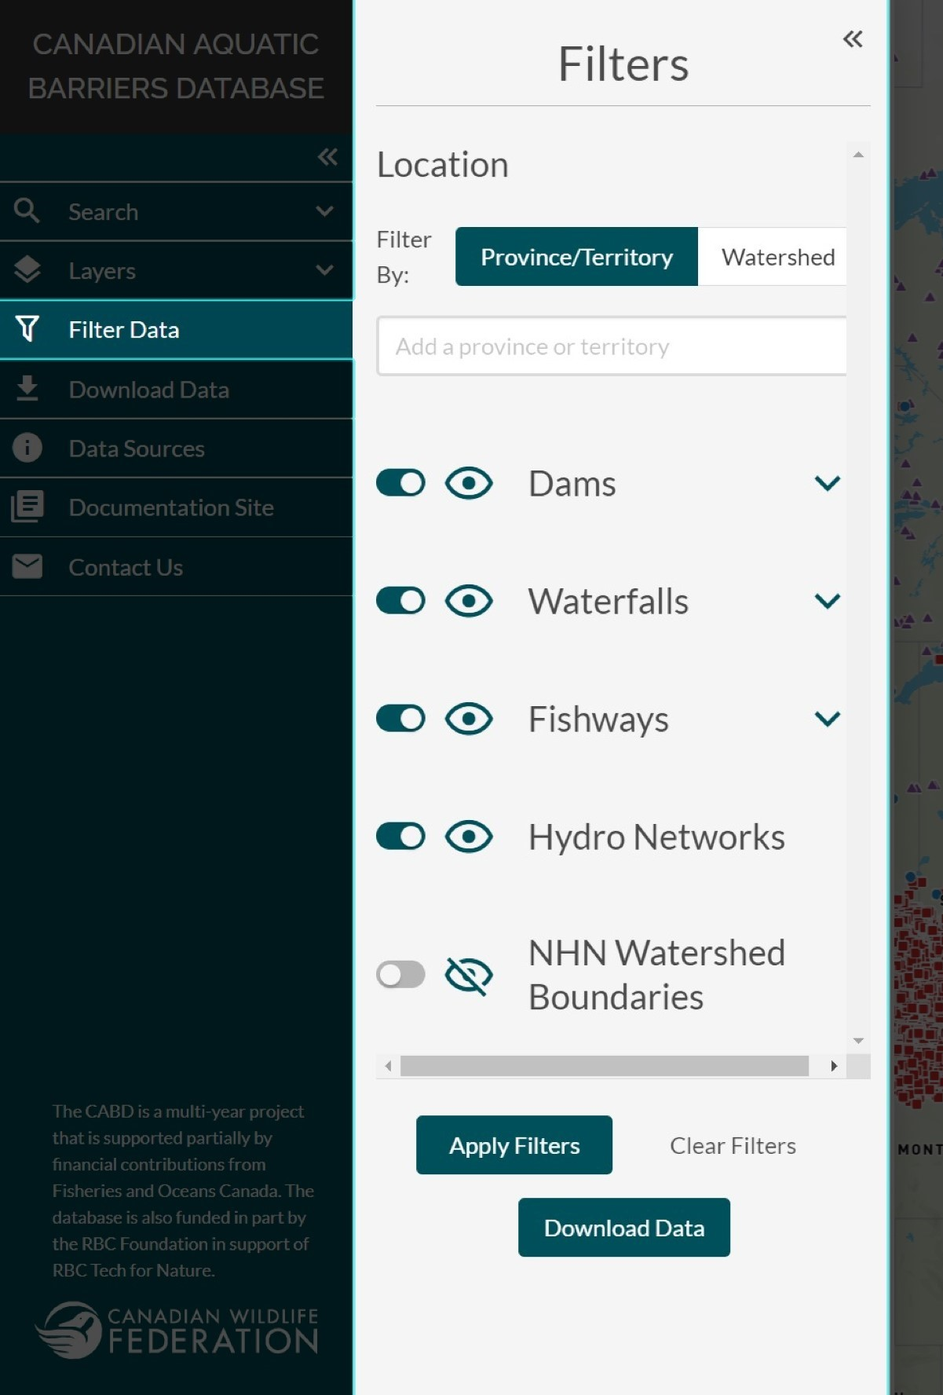
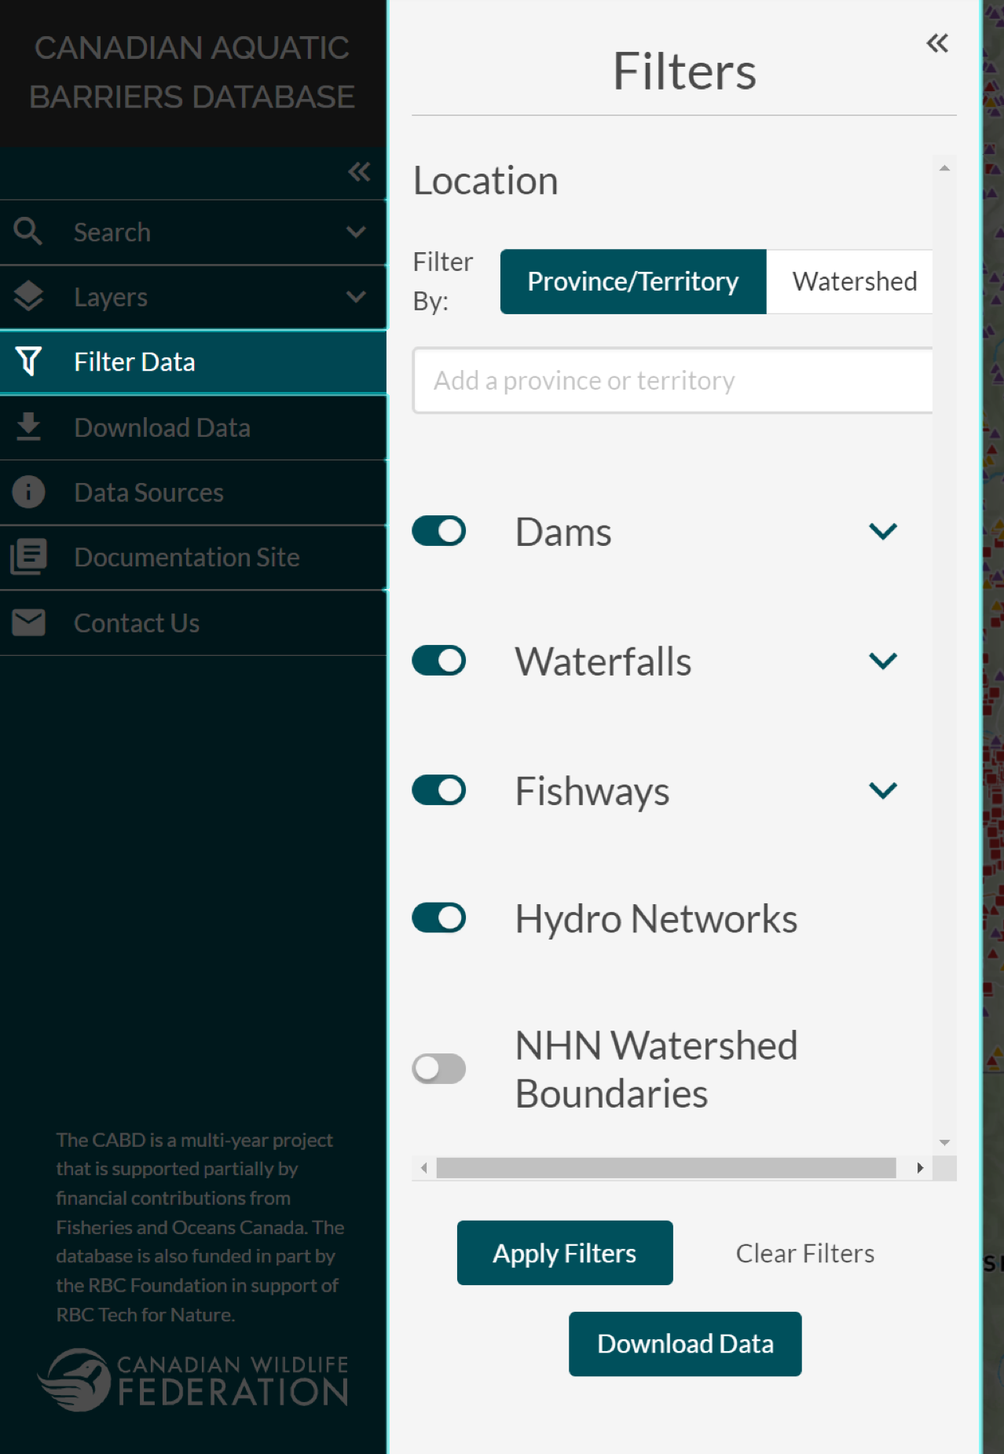
Content tweaks for launch
-updated data processing methods
-updated images in tutorial sections for refined interface
-minor corrections to advisory committee member lists
-some minor misc. corrections

diff --git a/docs/source/docs_tech/docs_tech_feature_review.rst b/docs/source/docs_tech/docs_tech_feature_review.rst
@@ -1,9 +1,8 @@
-======================
-Feature Review Process
-======================
+=======================
+Data Processing Methods
+=======================
 
-Reviewing existing datasets is an important step in preparing data for the Canadian Aquatic Barriers Database (CABD). This section provides a summary of the methods used to validate, deduplicate and standardize existing spatial datasets in an effort to create a harmonized national-scale database of barriers to aquatic connectivity, and associated structures, in Canada.
-
+The data in the Canadian Aquatic Barriers Database (CABD) has been compiled from a number of different spatial and non-spatial datasets. This section provides an overview of the methods used to validate, de-duplicate and standardize existing spatial datasets to match the CABD data structure.
 .. note::
 
     In the CABD, the term ‘feature’ is used to reference an individual structure that represents a dam, waterfall, or fishway. In this section, the term ‘feature point’ is used to represent the geographic point location of a feature.
@@ -14,41 +13,49 @@ Duplicate identification and tracking
 Generating the review layer
 ~~~~~~~~~~~~~~~~~~~~~~~~~~~
 
-The first step of the review process is to generate a review layer, which will then be manually reviewed and verified. Generating the review layer requires that all known and publicly available source datasets for a predefined area of interest (AOI) be examined to identify the source dataset with the highest number of feature points in the AOI. The feature points of this dataset are extracted to form the foundation of the ‘starting layer’. The review layer is then buffered to determine the most appropriate tolerance that will encircle the majority of the feature points from the other source datasets that represent the same structures (i.e., duplicates), while avoiding those that represent separate structures (i.e., nonduplicates); typically around 50 m.
+The first step of the process is to generate a review layer that records potential duplicate points from source datasets. The information in this review layer will then be manually reviewed and verified. 
 
-Next, the ‘Join attributes by nearest’ tool in QGIS is used to join the unique ids from a second source dataset with the features of the review layer, based on the determined tolerance. The resulting output is a new version of the review layer that contains an additional field in the attribute table which holds the unique id of each assumed duplicate from the second source dataset. This tool is run repeatedly for the remaining source datasets, using the generated output of each run as the first input layer for the next join. 
+The inputs for the review layer include a predefined area of interest (AOI) and a set of source datasets for the AOI - ideally, all known and publicly available source datasets. After identifying the source dataset with the highest number of feature points in the AOI, the feature points of this dataset are extracted to form the foundation of the ‘starting layer’. 
 
-Once all runs have completed, features points from each source dataset that fall outside the determined tolerance, but within the AOI, are selected and the entire process is repeated, begging with the layer that has the most features selected. Once most source dataset features are captured, output layers are merged to create the final version of the review layer. To facilitate the review process, a handful of fields were added to the review layer for the purpose of tracking specific details about a feature and an attributes form was created.
+The starting layer is buffered to determine the most appropriate buffer distance that contains the majority of feature points from other source datasets that represent the same structures (i.e., duplicates), and disjoints those that represent different structures (i.e., non-duplicates). This buffer distance is typically around 50-100 m.
+
+Next, the ‘Join attributes by nearest’ tool in QGIS is used to join the unique ids from a second source dataset with the features of the starting layer, based on the determined tolerance. The resulting output is a new version of the review layer that contains an additional field in the attribute table which holds the unique id of each assumed duplicate from the second source dataset. This tool is run repeatedly for the remaining source datasets, using the generated output of each run as the input layer for the next join. 
+
+Once all runs have completed, feature points from each source dataset that fall outside the determined tolerance, but within the AOI, are selected and the entire process is repeated with a new ‘starting layer’, beginning with the source dataset that has the most features selected. 
+
+Once most source dataset features are captured, all output layers are merged to create the final version of the review layer. To facilitate the review process, a handful of fields are also added at this point to the review layer to track additional details about features, and a custom attribute form display in QGIS is created. Once this final review layer is completed, it is loaded into a PostgreSQL database with the PostGIS extension to allow for reviewers to work simultaneously to verify feature point locations and information.
 
 Verifying the location of structures using satellite imagery
 ~~~~~~~~~~~~~~~~~~~~~~~~~~~~~~~~~~~~~~~~~~~~~~~~~~~~~~~~~~~~
 
-To begin verifying review layer feature points, the first step is to try and verify that the feature point is in the correct location. To do this, the reviewer will examine the feature point’s position relative to the location of the corresponding structure in satellite imagery, if visible. If a structure is not visible in the satellite imagery, the reviewer will use the feature point attributes to research the structure online to confirm the location of the structure or determine if the structure has been removed/decommissioned, and relocate the feature point if necessary. 
+The first step to verify feature points in the review layer is to try and confirm that the feature point is in the correct location. To do this, the reviewer will examine the feature point’s position relative to the location of the corresponding structure in satellite imagery, if visible. If a structure is not visible in the satellite imagery, the reviewer will review information about the structure available from the source datasets or research the structure online to confirm the structure’s location, determine if the structure has been removed or decommissioned, and relocate the feature point if necessary. 
 
-If the structure has not been decommissioned, the reviewer will then assess the location of the feature point relative to the hydrographic network. If the feature point is located more than 50 m away from the closest hydro network flowpath, the reviewer will relocate the feature point to where the structure intersects with the flowpath.
+If the structure has not been decommissioned, the reviewer will then assess the location of the feature point relative to the hydrographic network. If the feature point is located more than 50 m away from the closest hydro network flowpath, and is believed to be blocking flow, the reviewer will relocate the feature point to where the structure intersects with the flowpath (see section ‘:ref:`To snap, or not to snap <snapping>`’).
 
-Unless the attribute information or additional research indicates that a structure has been removed, is it assumed that all feature point structures from the source datasets are real. Therefore, in the event that a reviewer cannot confirm the existence or location of the feature point structure, the feature point is left in it’s original location.
+Unless source datasets or additional research indicate that a structure has been removed, it is assumed that all structures from the source datasets exist. Therefore, if a reviewer cannot confirm the existence or location of the structure, the feature point is left in its original location from the source dataset.
 
-Review and verify duplicate feature points of the review layer
-~~~~~~~~~~~~~~~~~~~~~~~~~~~~~~~~~~~~~~~~~~~~~~~~~~~~~~~~~~~~~~
+Verifying duplicate feature points of the review layer
+~~~~~~~~~~~~~~~~~~~~~~~~~~~~~~~~~~~~~~~~~~~~~~~~~~~~~~
 
 While the semi-automated process of generating the review layer is used to quickly capture most duplicate ids, it isn’t expected to produce a perfect result. Therefore, each feature point requires manual review to verify that all duplicate ids from the source datasets are being tracked correctly in the review layer, and to add any feature points that were missed during the join process. 
 
-This is done by cross referencing the unique ids present in the ‘Duplicates’ tab (fig. 1) of the review layer’s attribute form with the corresponding ids from source dataset features (fig. 2) that are located nearby. If a feature’s unique id is missing from the ‘Duplicates’ tab, the feature is investigated further (e.g., checking if structure names match, examining the satellite imagery for an additional structure) to determine if it is a true duplicate. If the missing feature is determined to be a duplicate, the unique id is manually added to the corresponding datasource field in the ‘Duplicates’ tab. If the feature is not a duplicate and was just missed when generating the review layer, a new feature point is manually added to the review layer, inputting the source dataset name and id from the original source dataset.
+This is done by cross referencing the unique ids present in the ‘Duplicates’ tab (Fig. 1) of the review layer’s attribute form with the corresponding ids from source dataset features (Fig. 2) that are located nearby. If a feature’s unique id is missing from the ‘Duplicates’ tab, the feature is investigated further (e.g., checking if structure names match, examining the satellite imagery for an additional structure, etc.) to determine if it corresponds to the same structure. If the missing feature is determined to be a duplicate, the unique id is manually added to the corresponding datasource field in the ‘Duplicates’ tab. If the feature is not a duplicate, a new feature point is manually added to the review layer, inputting the source dataset name and id from the original source dataset.
 
 .. figure:: img/duplicates.png
     :align: center
     :width: 75%
 
-    Figure 1. The review layer attributes form showing the data source and data source id of a feature point, and the unique ids of feature points (recorded in the ‘Duplicates’ tab) that were identified as duplicates from other source datasets.
+    Figure 1. The review layer attributes form showing the original data source and data source id of a feature point (data_source_text and data_source_id), and the unique ids of feature points (recorded in the ‘Duplicates’ tab) that were identified as duplicates of this structure from other source datasets.
 
 .. figure:: img/uniqueids.png
     :align: center
     :width: 75%
 
-    Figure 2. Unique ids of source dataset feature points.
+    Figure 2. Example of unique ids of source dataset feature points.
 
-Occasionally, the review layer may include several feature points that appear to correspond to a single structure on the ground. In this case, the attributes of each source dataset feature point in the location are compared and all feature points identified as duplicates are removed from the review layer; unique ids of each duplicate are added to the appropriate data source fields in the ‘Duplicates’ tab of the single remaining feature point. In this case, the feature point with the most attribute information is retained. 
+Occasionally, the review layer may include several distinct feature points that appear to correspond to a single structure on the ground. This typically results from differing geographic accuracy of point locations in source datasets. In these cases, the attributes of each source dataset feature point in the location are compared to determine if there should be one feature point at this location, or multiple feature points. If there should only be a single feature point, the unique ids from each source dataset for that point are added to the appropriate data source fields in the ‘Duplicates’ tab of a single feature point, and all other duplicate feature points are removed.
+
+.. _snapping:
 
 To snap, or not to snap
 -----------------------
@@ -56,28 +63,28 @@ To snap, or not to snap
 Does the structure block flow?
 ~~~~~~~~~~~~~~~~~~~~~~~~~~~~~~
 
-Considering that not all feature points representing a dam act as a potential longitudinal barrier to flow, a flag was implemented to specify if a feature point should or should not be snapped to the hydrographic network layer and thus used for geospatial analysis. This flag is a boolean field called ‘use_analysis’, or ‘Use for analysis?’ in the attribute form (fig. 1). 
+Since not all feature points representing a dam or other structure act as a potential longitudinal barrier to flow, a boolean field is added to the review layer to indicate if a feature point should or should not be snapped to the hydrographic network layer and therefore used for network analysis. This field is called ‘use_analysis’, or ‘Use for analysis?’ in the attribute form (Fig. 1). 
 
-When reviewing a feature point, the reviewer assesses it’s location relative to the flowpath (i.e., a stream or river) or waterbody (i.e., lake or double line river) and examines the information provided in the attribute table. If the attribute information available for the feature is limited, the reviewer may need to perform additional research to determine the nature of structure. 
+When reviewing a feature point, the reviewer assesses its location relative to the flowpath (i.e., a stream or river) or waterbody (i.e., lake or double line river) and examines the information provided in the attribute table. If the attribute information available for the feature is limited, the reviewer may need to research the structure further to determine if it is a longitudinal barrier.
 
-If a feature is identified as a barrier blocking up- and downstream flow, the reviewer would check the box next to the ‘Use for analysis’ row in the attribute form to set the ‘use_analysis’ field value for the feature point to ‘true’. Once feature review is complete, all features with a value of ‘true’ in the ‘use_analysis’ field will be snapped to a hydro network flowpath using a python script. 
+If a feature is identified as a barrier blocking upstream and downstream flow, the reviewer would set the ‘use_analysis’ field value for the feature point to ‘true’. Once feature review is complete, all features with a value of ‘true’ in the ‘use_analysis’ field will be snapped to a hydro network flowpath using a specified buffer distance - typically 150 m. If hydro networks are not yet available for the area, these features can be re-snapped in the future when hydro networks are available.
 
-If a feature is identified as an auxiliary structure (e.g., saddle dam, dyke, canal wall, etc.,), it is considered a lateral barrier (i.e., not blocking up- and downstream flow). In this case, the reviewer would leave the ‘Use for analysis?’ checkbox unchecked to set the ‘use_analysis’ field value for the feature point to ‘false’. All features with a value of ‘false’ in the ‘use_analysis’ field would not be snapped to the hydro network and thus omitted from future geospatial analysis.
+If a feature is identified as an auxiliary structure (e.g., saddle dam, dyke, canal wall, etc.,), it is considered a lateral barrier (i.e., not blocking upstream and downstream flow). In this case, the reviewer would set the ‘use_analysis’ field value for the feature point to ‘false’. All features with a value of ‘false’ in the ‘use_analysis’ field would not be snapped to the hydro network and thus omitted from future geospatial analysis.
 
 .. figure:: img/useanalysis.png
     :align: center
     :width: 75%
 
-    Figure 3. An example illustrating the logic used when determining if a feature point should or should not be used for analysis, snapped or not snapped to the hydrographic network, respectively. Shown are three feature points, each from a different source dataset: blue - dyke that is acting as a lateral barrier, red - embankment dam acting as a longitudinal barrier, green - duplicate of the red feature point. The flow in this area is represented by the red dotted line; arrows indicate the flow direction. 
+    Figure 3. An example illustrating the logic used when determining if a feature point should or should not be used for analysis, snapped or not snapped to the hydrographic network, respectively. Shown are three feature points, each from a different source dataset: blue - dyke that is acting as a lateral barrier, red - embankment dam acting as a longitudinal barrier, green - duplicate of the red feature point. The flow in this area is represented by the red dotted line; arrows indicate the flow direction.  
 
-Fishway structures are treated differently than barrier structures as their purpose is to facilitate fish passage past structures like dams, culverts or waterfalls. Considering that fishway structures do not act as barriers to fish passage, these features are always assigned a ‘use_analysis’ value of ‘false’, and flagged as a fishway by checking the ‘Is this a fishway’ check box under the ‘Fishway’ tab at the bottom of the review layer attribute form. If the feature point identified as a fishway corresponds to an existing record from the CANFISHPASS database, the unique id is used.
+Fishway structures are treated differently than barrier structures as their purpose is to facilitate fish passage past structures like dams, culverts or waterfalls. Considering that fishway structures do not act as barriers to fish passage, these features are always assigned a ‘use_analysis’ value of ‘false’, and flagged as a fishway by setting the ‘fishway_yn’ field value to ‘true’. If the feature point identified as a fishway corresponds to an existing record from the CANFISHPASS database, the unique id from CANFISHPASS is also recorded.
 
 Structures that block flow in multiple locations
 ~~~~~~~~~~~~~~~~~~~~~~~~~~~~~~~~~~~~~~~~~~~~~~~~
 
-Occasionally, a single feature will be blocking flow at multiple locations (fig. 4). In a case like this, a single feature point is not sufficient and a multipoint feature in required to place a point at each location where flow is blocked by the structure.
+Occasionally, a single feature will be blocking flow at multiple locations (fig. 4). In a case like this, a single feature point is not sufficient and a multipoint feature would be required to place a point at each location where flow is blocked by the structure.
 
-However, the CABD does not currently support the use of multipoint features, so a flag was created in the review layer attribute form that allows the reviewer to mark a single point feature as a future multipoint feature (i.e., the ‘Multipoint in future?’ checkbox).
+The CABD does not currently support multipoint features, so the ‘multipoint_yn’ field will be set to ‘true’ by the reviewer if the structure should be represented as a multipoint in the future. These structures will be represented as a single point in the existing version of the CABD, typically placed along a primary flowpath.
 
 .. figure:: img/multidamb.png
     :align: center
@@ -88,4 +95,4 @@ However, the CABD does not currently support the use of multipoint features, so 
 Last steps
 ----------
 
-Once the review process is complete, and all feature points in the review layer are verified, the final review layer and all source dataset layers are loaded into the database in preparation for source dataset attribute mapping. 
+Once the review process is complete, and all feature points in the review layer are verified, attributes from source datasets can be mapped to the feature points in this final review layer to match the CABD data structure.

diff --git a/docs/source/docs_user/docs_user_submitted_updates.rst b/docs/source/docs_user/docs_user_submitted_updates.rst
@@ -4,15 +4,12 @@
 Submit Data Updates
 ===================
 
-We are working hard to fill existing data gaps in the CABD, but filling these data gaps is a huge job and we’re hoping people across Canada can help! We’re working on some new tools to allow users to submit information through the CABD web tool, but in the meantime you can submit updates to the attribute information for features in the CABD (i.e., a dam, waterfall, or fishway) in one of two ways:
-
-#. Sharing the information with the CABD team via email, or
-#. Filling out the appropriate data updates form for the feature being updated (see :ref:`section 2 <section2>` below).
+We are working hard to fill existing data gaps in the CABD, but filling these data gaps is a huge job and we’re hoping people across Canada can help! We’re working on some new tools to allow users to submit information through the CABD web tool, but in the meantime you can submit updates to the attribute information for features in the CABD (i.e., a dam, waterfall, or fishway) by sharing the information with the CABD team via email (see below for details).
 
 We’ll compile and release data updates in bulk periodically (every few months), so check out our :ref:`Data Releases <data-releases>` section for the latest updates!
 
-1. Submit Updates via Email
----------------------------
+Submitting Updates via Email
+----------------------------
 
 -----
 
@@ -32,32 +29,8 @@ The body of the email **must** include:
 
 Once received, our team will review the content and update the database with the provided information.
 
-.. _section2:
+.. note::
 
-2. Submit Updates via Microsoft Forms
--------------------------------------
-
------
-
-If you are using CABD data for your work, and would like to regularly contribute data updates you can also submit data updates using our Microsoft Form. To access the proper form, select the feature type (dams, waterfalls, or fishways) below for which you would like to submit an update. The appropriate form will open in a new browser tab which you may then fill out and submit. 
-
-Each form contains input fields for all attributes pertaining to that specific feature type and prompts the user for detailed information about the data source, if applicable. A description of each attribute is provided in the form itself. If an attribute has a list of allowable values, options will be provided in a dropdown list.
-
-.. important::
-
-    Submitting data updates via MS form is a more in-depth process than submitting updates by email. 
-    
-    This option is not recommended for those that do not have a good understanding of the CABD data structure. 
-
-Data Update Forms
-~~~~~~~~~~~~~~~~~~
-
-`Dams <https://forms.office.com/Pages/ResponsePage.aspx?id=A8N2i-wB1UCNmmwvbXjc15ERVmcC4dFPn5j4q5-aulRURE1TSjBJNEtDNlY0WTlXVFY5MkFOMzRVUS4u>`_
-
-Fishways [*coming soon*]
-
-Waterfalls [*coming soon*]
-
------
+    If you are interested in submitting more detailed updates to the CABD, please reach out to us at cabd@cwf-fcf.org
 
 **Thank you for your contribution!**

diff --git a/docs/source/docs_user/docs_user_web_map/docs_user_web_map_tutorial_filters.rst b/docs/source/docs_user/docs_user_web_map/docs_user_web_map_tutorial_filters.rst
@@ -35,7 +35,7 @@ To do this, you will need to toggle on the ‘NHN Watershed Boundaries’ layer 
     :align: left
     :width: 75%
 
-.. _note:
+.. note::
     
     Data can only be filtered by province/territory or watershed at one time. Selections may be made under both options but only the criteria present in the active window will be used for filtering the data. 
 
@@ -44,7 +44,7 @@ Filter by Attribute
 
 Below the options to filter by location are the options to filter each feature type by a predefined list of attributes. 
 
-To exclude an entire feature type from being filtered, you can toggle it off by clicking the toggle switch or eye icon on the left inside the ‘Filters’ window.
+To exclude an entire feature type from being filtered, you can toggle it off by clicking the toggle switch on the left inside the ‘Filters’ window.
 
 .. figure:: img/filter_layers.png
     :align: left

diff --git a/docs/source/docs_tech/docs_tech_arch_api.rst b/docs/source/docs_tech/docs_tech_arch_api.rst
@@ -7,9 +7,9 @@
 
 .. _cabd-rest-services:
 
-=============================
+=================
 REST API Services
-=============================
+=================
 
 .. _api-overview:
 
@@ -384,7 +384,7 @@ The default output format of this end point is CSV.
 JSON format is also supported by providing the ``format=json`` query parameter: |ftdsidjson|.
 
 
-.. _feature-vector-tile-service
+.. _feature-vector-tile-service:
 
 Vector Tile Service
 -------------------

diff --git a/docs/source/docs_tech/docs_tech_arch_models.rst b/docs/source/docs_tech/docs_tech_arch_models.rst
@@ -36,9 +36,6 @@ Features and Database Models
 
 -----
 
-.. _current-application-architecture:
-
-
 CABD Feature Model
 ~~~~~~~~~~~~~~~~~~
 
